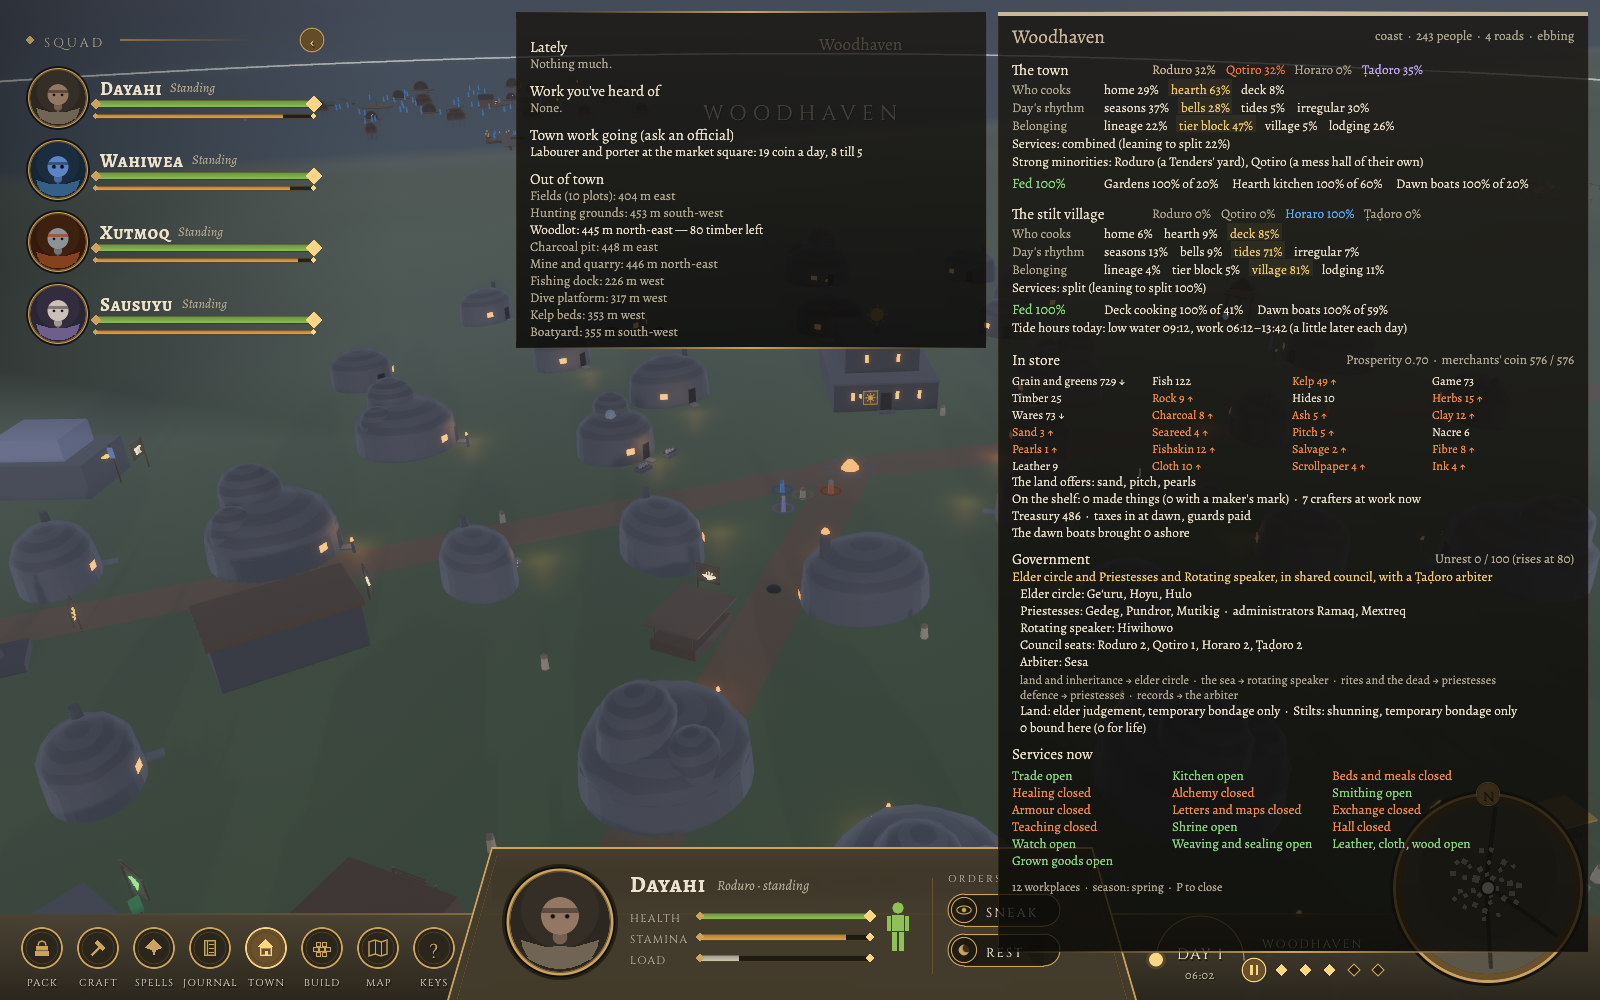
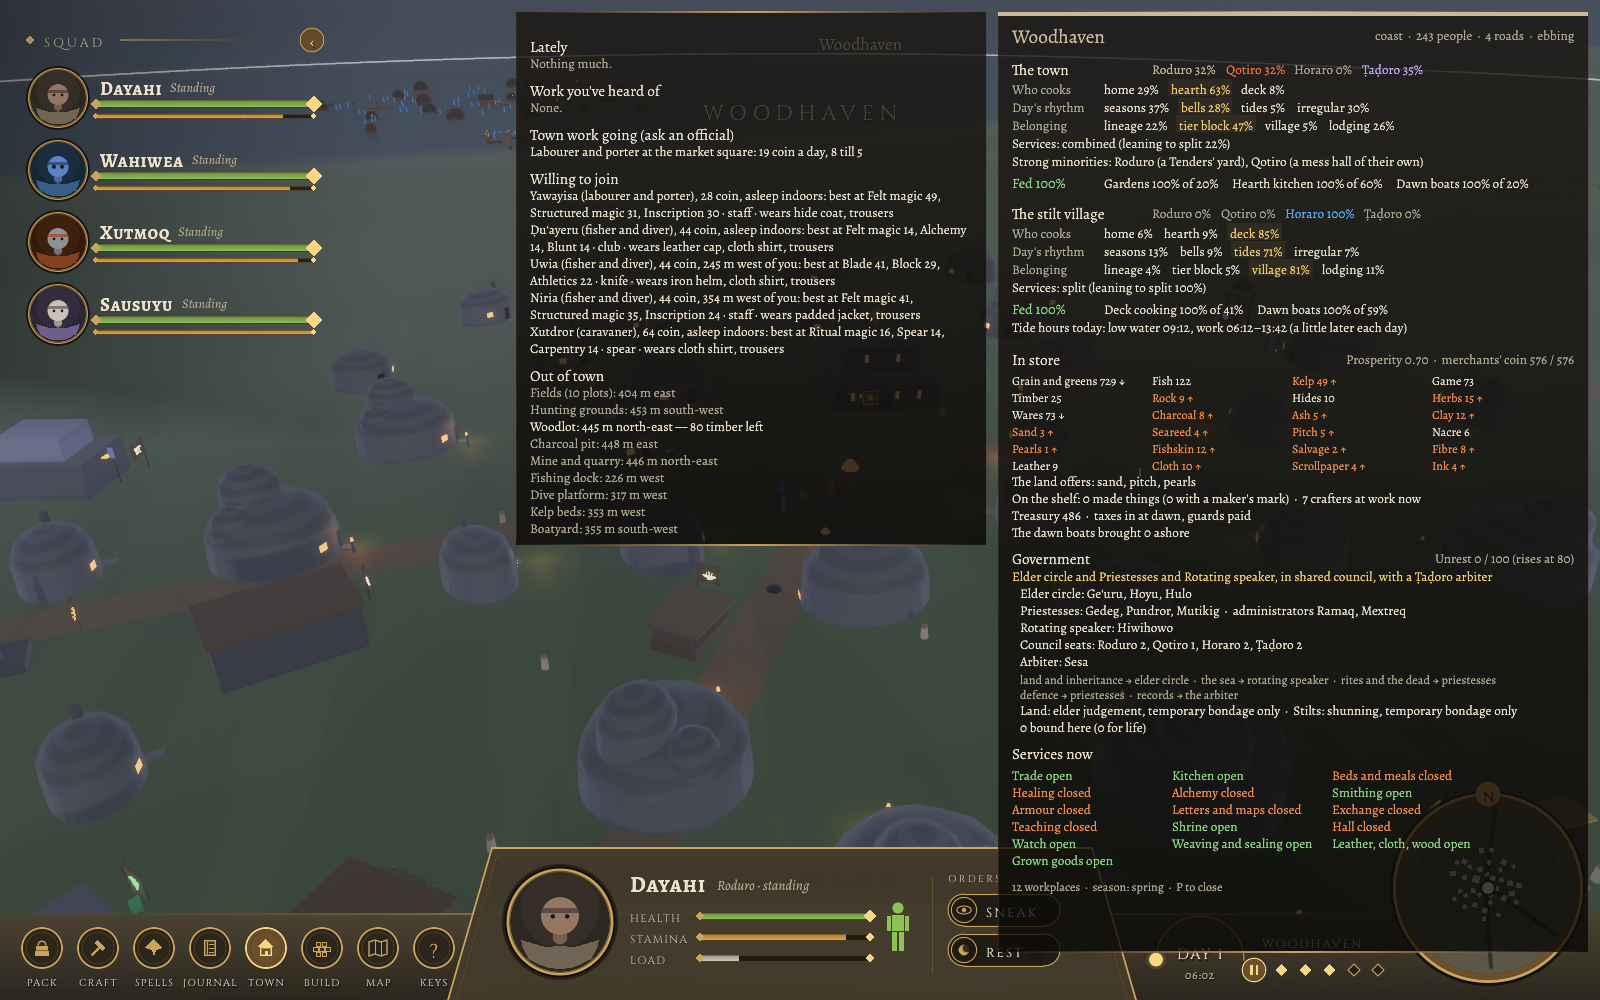
Recruits easy to spot: who's willing, their price, where they are and what they'd bring
- recruit.rs: willing_in(town), recruit_card (top three skills, weapon, what they wear,
  from their kit or the kit they'd turn up with) and why_not_join (one line).
- Anyone who won't come can still be asked ("Come with us", AskJoin, last in Topic so old
  saves read) and says why not in a line.
- Town panel: a Willing to join list (price, where, the card); hover over a willing person
  shows the card; the opening tip points at the list (every town has someone, tested).
- play: willing people top the people list with their card; town lists them; the talk view
  shows the card when they'd join.

Claude-Session: https://claude.ai/code/session_01RNCz5cPwcp8ngF2jdtYrXo

Changed region(s): [[0.3125, 0.155, 0.625, 0.558]]

diff --git a/src/bin/play.rs b/src/bin/play.rs
@@ -265,7 +265,7 @@ fn pos_of(w: &World, id: &str) -> Option<V2> {
 
 const TIPS: &[(&str, &str)] = &[
     ("welcome", "Welcome. Left-click the ground to walk. Click a squad member to choose who takes orders. Hover over anything to see what it is."),
-    ("town", "A town. Click a townsperson to talk: merchants trade, some have work, and a few restless ones will join the squad if asked."),
+    ("town", "A town. Click a townsperson to talk: merchants trade, some have work, and a few restless ones will join the squad if asked (`town` lists who, and their price)."),
     ("work", "Short of coin? Every town has a woodlot (and some a mine) nearby, marked by a post. Click it and the selected work until their packs are full."),
     ("fight", "A fight! Click an enemy to set the selected on them. Z sneaks; T lights a torch."),
     ("loot", "A beaten foe: click them and someone goes through their things. Bandits carry coin."),
@@ -410,7 +410,11 @@ fn nearby(w: &World, only: &str) -> String {
                 None => {}
             }
             let tag = if tags.is_empty() { String::new() } else { format!(" [{}]", tags.join("; ")) };
-            folk.push((here.dist(at), format!("p{p}  {} — {} {}{tag} — {}", name_of(w, p), pp.race.name(), job.to_lowercase(), dist_dir(here, at))));
+            // The willing first, with what they'd bring.
+            match w.join_terms(p) {
+                Some(_) => folk.push((here.dist(at) - 1e6, format!("p{p}  {} — {} {}{tag} — {}\n        {}", name_of(w, p), pp.race.name(), job.to_lowercase(), dist_dir(here, at), w.recruit_card(p)))),
+                None => folk.push((here.dist(at), format!("p{p}  {} — {} {}{tag} — {}", name_of(w, p), pp.race.name(), job.to_lowercase(), dist_dir(here, at)))),
+            }
         }
     }
     for g in w.groups.iter().filter(|g| g.band <= 1) {
@@ -612,6 +616,9 @@ fn talk_view(w: &World) -> String {
     let _ = writeln!(o, "TALKING with {} ({} {}):", name_of(w, c.npc), w.people[c.npc as usize].race.name(), w.life(c.npc).job.title(w.people[c.npc as usize].seed).to_lowercase());
     for (npc, l) in c.lines.iter().rev().take(6).collect::<Vec<_>>().into_iter().rev() {
         let _ = writeln!(o, "  {} {}", if *npc { "»" } else { "  you:" }, gahturiyu_sim::sim::speech::plain(l));
+    }
+    if let Some(fee) = w.join_terms(c.npc) {
+        let _ = writeln!(o, "  (Would join{}: {}.)", if fee > 0 { format!(" for {fee} coin") } else { " for nothing".into() }, w.recruit_card(c.npc));
     }
     let _ = writeln!(o, "  Topics (say N):");
     for (i, t) in w.topics().iter().enumerate() {
@@ -1198,6 +1205,13 @@ fn run(w: &mut World, s: &mut Session, cmd: &str, a: &[&str], save: &Path) -> St
                         let at = tl.places.get(pl as usize).map(|p| p.kind.name().to_lowercase()).unwrap_or_default();
                         let _ = writeln!(o, "    {} at the {at} — {} coin a day, 8 till 5", job.name(), w.post_wage(job));
                     }
+                }
+                let willing = w.willing_in(t.id);
+                let _ = writeln!(o, "  Willing to join ({}):", willing.len());
+                for (p, fee) in willing {
+                    let price = if fee > 0 { format!("{fee} coin") } else { "for nothing".into() };
+                    let at = if w.is_indoors_asleep(p) { "asleep indoors".to_string() } else { dist_dir(here, w.person_pos(p)) };
+                    let _ = writeln!(o, "    p{p} {} ({}), {price} — {at}\n        {}", name_of(w, p), w.life(p).job.name().to_lowercase(), w.recruit_card(p));
                 }
                 let _ = writeln!(o, "  Merchants:");
                 for &p in &t.residents {

diff --git a/src/sim/recruit.rs b/src/sim/recruit.rs
@@ -60,6 +60,59 @@ impl World {
         (roll < FEE_SHARE * restless).then(|| (life.job.pay().max(0.7) * FEE_HOURS).ceil() as u16)
     }
 
+    /// Why someone won't come, in a line of their own (`None` if they would).
+    pub fn why_not_join(&self, npc: PersonId) -> Option<&'static str> {
+        if self.join_terms(npc).is_some() {
+            return None;
+        }
+        let p = &self.people[npc as usize];
+        if self.squad.members.len() >= MAX_SQUAD {
+            return Some("There's no room for another of you, by the look of it.");
+        }
+        let t = self.time;
+        if self.is_bonded(npc, t) {
+            return Some("I'm bound here till my debt's worked off. I can't go anywhere.");
+        }
+        if self.holds_office(npc) {
+            return Some("The town needs me where I am. No.");
+        }
+        let restless = p.traits.boldness + p.traits.wanderlust;
+        let jobless = matches!(self.society.lives.get(npc as usize).map(|l| l.job), Some(super::jobs::Job::None | super::jobs::Job::Drifter));
+        Some(match (restless < RESTLESS_FLOOR + 0.2, jobless) {
+            (true, _) => "Me? On the road? No — I'm not made for it.",
+            (false, true) => "Not this time. I've something to see to here first.",
+            (false, false) => "I've a living here, and I'm not leaving it.",
+        })
+    }
+
+    /// Who they are as a hire, before they're hired: their three best
+    /// skills and what they'd bring.
+    pub fn recruit_card(&self, npc: PersonId) -> String {
+        let p = &self.people[npc as usize];
+        let mut best: Vec<(super::stats::Skill, f32)> = super::stats::SKILLS.iter().map(|&k| (k, p.stats.skill(k))).collect();
+        best.sort_by(|a, b| b.1.total_cmp(&a.1).then(a.0.cmp(&b.0)));
+        let skills: Vec<String> = best.iter().take(3).map(|(k, v)| format!("{} {:.0}", k.name(), v)).collect();
+        // Their kit as it is (or as they'd turn up with it, if never met).
+        let kit = match &p.detail {
+            Some(d) => d.gear.clone(),
+            None => super::inventory::starting_kit(p.race, &p.kit_stats, p.budget, p.seed),
+        };
+        use super::items::{item, Slot, SLOTS};
+        let name = |s: Slot| kit.in_slot(s).map(|it| item(it).name.to_lowercase());
+        let arms: Vec<String> = [Slot::MainHand, Slot::OffHand].into_iter().filter_map(name).collect();
+        let worn: Vec<String> = SLOTS.into_iter().filter(|s| !matches!(s, Slot::MainHand | Slot::OffHand)).filter_map(name).collect();
+        let arms = if arms.is_empty() { "no weapon".to_string() } else { arms.join(" and ") };
+        let worn = if worn.is_empty() { "nothing much".to_string() } else { worn.join(", ") };
+        format!("best at {} · {arms} · wears {worn}", skills.join(", "))
+    }
+
+    /// Everyone in a town who'd come if asked: (who, fee), cheapest first.
+    pub fn willing_in(&self, town: super::settlement::SettlementId) -> Vec<(PersonId, u16)> {
+        let mut v: Vec<(PersonId, u16)> = self.settlements[town as usize].residents.iter().filter_map(|&p| self.join_terms(p).map(|f| (p, f))).collect();
+        v.sort_by_key(|&(p, f)| (f, p));
+        v
+    }
+
     /// Take someone into the squad: `by` (a squad member beside them) pays
     /// any fee, which goes home to their household; they leave their post,
     /// home and household and stand beside `by`.

diff --git a/src/sim/dialogue.rs b/src/sim/dialogue.rs
@@ -89,6 +89,9 @@ pub enum Topic {
     /// Sell every one of these the merchant will take.
     SellAll(items::ItemId),
     Goodbye,
+    /// Ask someone who won't come to join anyway: they say why not.
+    /// (Last, so saves made before it still read.)
+    AskJoin,
 }
 
 impl Topic {
@@ -126,7 +129,7 @@ impl Topic {
             Topic::PostWork(..) => "I'm looking for work",
             Topic::QuitWork => "I'm giving up this work",
             Topic::Hire(_) => "Come and work at my outpost",
-            Topic::Join(_) => "Come with us",
+            Topic::Join(_) | Topic::AskJoin => "Come with us",
             Topic::SellAll(..) => "Sell all",
             Topic::Say(o) => o.label(),
             Topic::Goodbye => "Goodbye",
@@ -402,8 +405,11 @@ impl World {
             t.push(Topic::Hire(wage));
         }
         // The restless may take to the road with the squad.
-        if let Some(fee) = self.join_terms(c.npc) {
-            t.push(Topic::Join(fee));
+        // (Anyone else, asked, says why not in a line.)
+        match self.join_terms(c.npc) {
+            Some(fee) => t.push(Topic::Join(fee)),
+            None if self.people[c.npc as usize].home.is_some() && !self.people[c.npc as usize].in_squad => t.push(Topic::AskJoin),
+            None => {}
         }
         // Tenders take orders for grown pieces.
         if !self.order_options(c.npc).is_empty() {
@@ -675,6 +681,7 @@ impl World {
                 }
                 Err(e) => format!("No — {e}."),
             },
+            Topic::AskJoin => self.why_not_join(c.npc).unwrap_or("Ask me properly.").to_string(),
             Topic::Join(fee) => match self.recruit(c.npc, c.with) {
                 Ok(_) if fee > 0 => format!("{fee} coin to my household, and I'm yours. Where are we going?"),
                 Ok(_) => "Nothing keeps me here. I'll get my things — lead on.".into(),
@@ -876,6 +883,7 @@ fn topic_key(t: Topic) -> u64 {
         Topic::QuitWork => 70,
         Topic::Hire(_) => 71,
         Topic::Join(_) => 72,
+        Topic::AskJoin => 73,
         Topic::SellAll(it) => 2_000_000 + it as u64,
         Topic::Say(o) => 80 + o as u64,
     }

diff --git a/tests/recruit.rs b/tests/recruit.rs
@@ -105,3 +105,41 @@ fn a_full_squad_takes_no_more() {
     let anyone = w.settlements.iter().flat_map(|s| &s.residents).any(|&p| w.join_terms(p).is_some());
     assert!(!anyone, "no room");
 }
+
+#[test]
+fn the_willing_are_listed_with_what_they_bring() {
+    let w = world();
+    let mut empty = Vec::new();
+    for s in &w.settlements {
+        let v = w.willing_in(s.id);
+        if v.is_empty() {
+            empty.push(s.name.clone());
+        }
+        for (p, fee) in v {
+            assert_eq!(w.join_terms(p), Some(fee));
+            let card = w.recruit_card(p);
+            assert!(card.starts_with("best at ") && card.matches(", ").count() >= 2 && card.contains(" · "), "{card}");
+        }
+    }
+    eprintln!("towns with nobody willing: {empty:?}");
+    assert!(empty.len() * 4 < w.settlements.len(), "most towns have someone willing");
+}
+
+#[test]
+fn someone_unwilling_says_so() {
+    let mut w = world();
+    let npc = w.settlements[0].residents.iter().copied().find(|&p| w.join_terms(p).is_none() && !w.is_indoors_asleep(p) && !w.people[p as usize].dead).unwrap();
+    let who = w.squad.members[0];
+    let at = w.person_pos(npc);
+    w.teleport_squad(at.add(gahturiyu_sim::sim::geo::V2::new(1.5, 0.0)));
+    w.squad.at[0] = at.add(gahturiyu_sim::sim::geo::V2::new(1.0, 0.0));
+    assert!(w.order_talk(who, npc));
+    for _ in 0..20 {
+        w.step(0.1);
+    }
+    assert!(w.topics().contains(&Topic::AskJoin));
+    w.ask(Topic::AskJoin);
+    let said = w.talk.as_ref().unwrap().lines.last().unwrap().1.clone();
+    assert_eq!(said, w.why_not_join(npc).unwrap());
+    assert!(w.squad.members.len() == 4 || !w.squad.members.contains(&npc));
+}

diff --git a/src/view/townui.rs b/src/view/townui.rs
@@ -345,6 +345,22 @@ pub fn life_panel(c: &Canvas, w: &World, town: u16, debug: bool) -> Bx {
             rows.push((l, GOLD, 13.0));
         }
     }
+    // Who'd join the squad, for what, where they are and what they'd bring.
+    let willing = w.willing_in(town);
+    head(&mut rows, "Willing to join");
+    if willing.is_empty() {
+        rows.push(("No one here, for now.".into(), DIM, 13.0));
+    }
+    for (p, fee) in willing {
+        let price = if fee > 0 { format!("{fee} coin") } else { "for nothing".into() };
+        let at = if w.is_indoors_asleep(p) {
+            "asleep indoors".to_string()
+        } else {
+            let v = w.person_pos(p).sub(w.squad.pos);
+            format!("{:.0} m {} of you", v.len(), gahturiyu_sim::sim::quests::compass(v))
+        };
+        rows.push((format!("{} ({}), {price}, {at}: {}", w.name_of(p), w.life(p).job.name().to_lowercase(), w.recruit_card(p)), TEXT, 13.0));
+    }
     // Where the out-of-town work is, from the town's middle.
     head(&mut rows, "Out of town");
     let mid = w.settlements[town as usize].pos;

diff --git a/src/view/hints.rs b/src/view/hints.rs
@@ -22,7 +22,7 @@ const WRAP: usize = 74;
 /// The tips, in the order they're considered.
 const HINTS: &[(&str, &str)] = &[
     ("welcome", "Welcome. Left-click the ground to walk. Click a card along the bottom (or F1–F4) to choose who takes orders; ` picks everyone again. Hover over anything to see what it is."),
-    ("town", "A town. Click a townsperson to talk: merchants trade, some have work, and a few restless ones will join the squad if asked."),
+    ("town", "A town. Click a townsperson to talk: merchants trade, some have work, and a few restless ones will join the squad if asked (the town panel lists who, and their price)."),
     ("work", "Short of coin? Every town has a woodlot (and some a mine) nearby, marked by a post. Click it and the selected work until their packs are full."),
     ("fight", "A fight! Click an enemy to set the selected on them. Z sneaks; T lights a torch. The ring under each fighter points the way they face."),
     ("loot", "A beaten foe: click them and someone goes through their things. Bandits carry coin."),

diff --git a/src/view/hud.rs b/src/view/hud.rs
@@ -421,6 +421,10 @@ pub fn describe(w: &World, h: Hover) -> Vec<(String, Rgb)> {
                 }
             } else {
                 out.extend(work_lines(w, pid));
+                if let Some(fee) = w.join_terms(pid) {
+                    let price = if fee > 0 { format!("for {fee} coin") } else { "for nothing".into() };
+                    out.push((format!("Would join the squad {price}: {}", w.recruit_card(pid)), GOLD));
+                }
                 out.extend(life_lines(w, pid));
                 if let Some(g) = w.group_of[pid as usize].and_then(|g| w.group(g)) {
                     out.push((doing(w, g.id), DIM));
